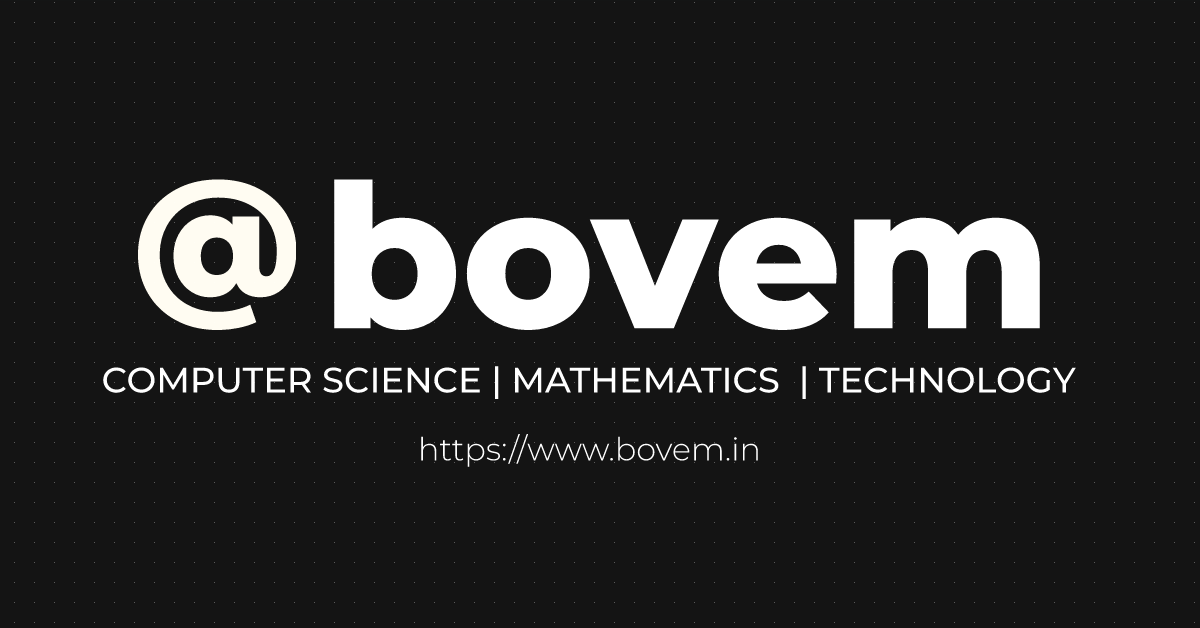
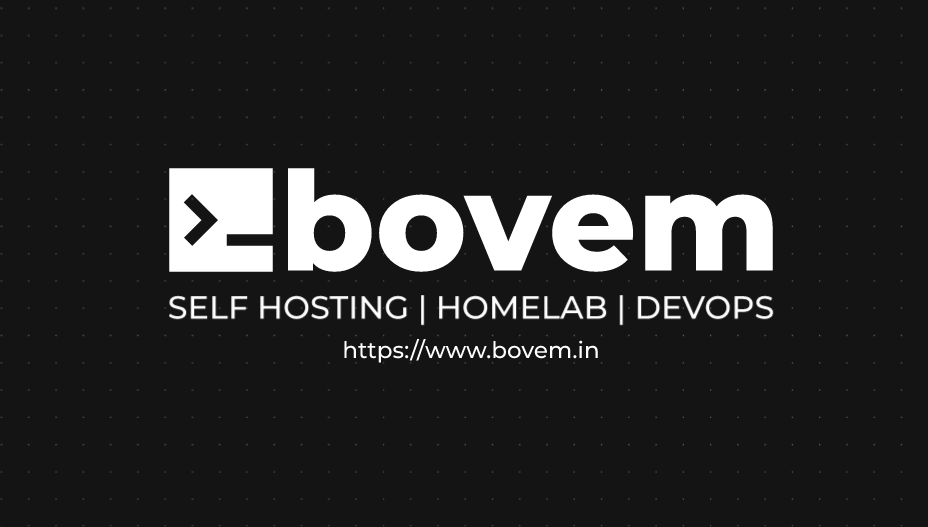
Finished article: container image building

Changed region(s): [[0.0625, 0.2732, 0.9062, 0.759]]

diff --git a/content/posts/openshift/building-container-images/index.md b/content/posts/openshift/building-container-images/index.md
@@ -1,0 +1,171 @@
+---
+author: "Avnish"
+title: "Building Container Images"
+date: "2023-03-20"
+description: "Container images are built from Containerfile, a plaintext specification containing the steps to be executed during the build process."
+tags: ["container","podman","docker","buildah","openshift","kubernetes","container-image"]
+categories: ["Microservices", "Cloud Computing"]
+series: ["OpenShift"]
+aliases: ["building-container-images"]
+ShowToc: true
+TocOpen: false
+cover:
+  image: "container_image.drawio.svg"
+  linkFullImages: true
+  alt: "Building container images from Containerfile"
+  caption: "Building container images from Containerfile"
+  relative: false
+---
+
+Public registries provide container images for most use cases but they might not cover all of them. That's why container engines such as Podman & Docker and CLI tools like `buildah` provide utilities for creating custom <a href="/posts/openshift/container-images" target="_blank">container images</a>.
+
+The build steps are written in a plaintext file called **Containerfile** and parsed by container engines (or `buildah`) during the build process.
+
+```dockerfile
+# Containerfile
+FROM node:18-alpine
+LABEL version="1.0" 
+WORKDIR /app
+COPY . .
+RUN yarn install --production
+CMD ["node", "src/index.js"]
+EXPOSE 3000
+```
+
+## Containerfile Instructions
+Steps inside the containerfile are defined using instructions such as `FROM`, `RUN`, `ADD`, `COPY`, etc. 
+Container Engines go through the containerfile line-by-line and perform each step, stacking a new image layer on top of the previous one.
+
+### FROM
+`FROM` instruction specifies the base layer container image. The base layer image could be chosen based on OS preference (like Fedora, Kali, etc.) or programming language preference (like gcc, python, etc.), or any other preference.
+It is mandatory to have a `FROM` instruction in the containerfile.
+
+### ARG
+Variables for `FROM` instruction are defined using `ARG`.
+
+```dockerfile
+ARG IMAGE_VERSION=3.7
+FROM python:${IMAGE_VERSION}
+```
+
+After `FROM` instruction is executed, the value for the variable declared in `ARG` becomes inaccessible.
+
+### ENV
+The Environment variables (used by other instructions) are declared using `ENV`.
+
+```dockerfile
+ENV DEPLOYMENT_FOLDER=src
+WORKDIR ${DEPLOYMENT_FOLDER}
+```
+
+The `=` operator between the variable name and its value is optional.
+
+### LABEL
+`LABEL` is used to add metadata for container images in the form of key-value pairs. Metadata usually contains the author's name, author's email, version of the container image, etc.
+
+### ADD
+`ADD` instruction will copy files/directories from the source (host OS/URL/tarball) to the destination (container image). `ADD` allows permissions to be omitted on the copied files/directories with the `--chown` flag.
+
+```dockerfile
+ADD --chown=user:group src/ dest
+```
+
+Builds are performed inside a build context directory on the host. `ADD` will fail if the source file/directory is outside the build context.
+
+### COPY
+`COPY` is similar to `ADD` but it is limited to sources on the host, it doesn't support URLs or tarball. `COPY` is sufficient for most use cases, so it is preferred over `ADD`.
+
+### WORKDIR
+`WORKDIR` changes the current working directory (inside the image) for the next instructions. 
+
+### RUN
+`RUN` instruction executes the shell command passed as an argument. 
+
+A temporary container is created to execute the shell command and the changes on the file system (after command execution) are layered on top of existing image layers. By default, the instruction `RUN apt-get update -y` will be executed as `/bin/bash -c apt-get update -y`. 
+
+`SHELL` instruction is used in containerfile to change the default shell for `RUN`, for example, `SHELL ["/bin/zsh", "-c"]` will change the default shell from `bash` to `zsh`.
+
+### EXPOSE
+`EXPOSE` specifies the network ports to be used by the container on runtime. The ports still have to be published when the <a href="/posts/openshift/container-lifecycle/#port-forwarding" target="_blank">container is provisioned</a>.
+
+### CMD
+`CMD` adds a shell command that will be executed on container startup. `CMD` instructions could be written as `CMD param1 param2` or `CMD ["/bin/executable", "param1", "param2"]`. 
+
+Adding a `CMD` instruction can define the behavior of the container on startup, for example, a webserver container should start the webserver automatically on startup by running the invocation command defined in `CMD`.
+
+### ENTRYPOINT
+If the executable on container startup is expected to be the same in most conditions then it is preferable to add `ENTRYPOINT` over `CMD`. Parameters for the executable could be passed from `CMD` instruction.
+
+```dockerfile
+ENTRYPOINT /bin/executable
+CMD ["param1", "param2"]
+```
+
+### VOLUME
+To create a mount point inside the container, `VOLUME` instruction can be used. During runtime, the `--volume` flag is used to map a directory on the host to the mount point declared by `VOLUME` instruction. The data stored on the mount point will persist after container execution.
+
+### ONBUILD
+The command added in the `ONBUILD` instruction is executed when the built image is used as the base container image. 
+
+If container image `container-image-b` uses `container-image-a` as a base image, then the `ONBUILD` instruction defined in `container-image-a` will be triggered after `FROM` instruction is executed in `container-image-b`.
+
+<p align="center"><img src="on_build.png" alt="Execution of ONBUILD instruction"></p>
+<p align="center"><small><i>Execution of ONBUILD instruction</i></small></p>
+
+Using `ONBUILD`, the developers can ensure that any new image built upon their container image has the latest source code or that packages are up-to-date.
+
+```dockerfile
+ONBUILD RUN git clone source-code-repo-link.git
+```
+
+### USER
+`USER` instruction sets `UID` or `GID` during the build process.
+
+## Building container images using Docker
+Docker and Podman provide `build` subcommand for building container images from containerfile.
+
+```bash
+docker build .
+```
+
+`.` will be substituted with the current working directory on the host. 
+
+Note that by default Docker expects *Dockerfile* (instead of *Containerfile*) in the build context, `--file` flag could be used to pass the path to containerfile.
+
+```bash
+docker build --tag node-application:latest . --file ./Containerfile
+```
+
+Container Engines cache the built layers to save time and storage. Cached layers are reused in other image builds to disable this behavior `--no-cache` flag could be used with the `build` subcommand.
+
+`--rm` flag ensures that the intermediate container images are removed once the build process is successful.
+
+Adding files with sensitive data to `.dockerignore` will make sure that they aren't included in the container image.
+
+## Building container images using buildah
+`buildah` provides a `bud` subcommand for building container images from containerfile.
+
+```dockerfile
+buildah bud --tag "webserver:latest" .
+```
+
+Images built by `buildah` could then be executed using Podman and Docker or any other OCI image-compatible container engine. Podman also has a `build` subcommand for building container images and it uses the same code as `buildah`.
+
+`buildah` provides finer control over image building process that allows users to
+* Create base images using the scratch image, an image with a minimal footprint.
+* Mount a container's root filesystem, useful for debugging container-related issues.
+* Create a container image from a working container, helpful if Containerfile isn't accessible.
+* Execution of containerfile instructions using subcommands. For example, `RUN` instruction could be executed on a container image using `buildah run`. Similarly for `COPY` and `ADD` instructions.
+* Debug image building process by executing instructions manually with buildah.
+* Making ad-hoc changes to existing container images.
+* Automating build process.
+
+# External Resources
+<a href="https://opencontainers.org/about/overview/" target="_blank">About the Open Container Initiative</a>  
+<a href="https://github.com/opencontainers/image-spec/blob/main/manifest.md" target="_blank">OCI Image Manifest Specification</a>  
+<a href="https://github.com/opencontainers/image-spec/blob/main/layer.md" target="_blank">Image Layer Filesystem Changeset</a>  
+<a href="https://github.com/opencontainers/image-spec/blob/main/config.md" target="_blank">OCI Image Configuration</a>  
+<a href="https://docs.docker.com/storage/storagedriver/" target="_blank">About storage drivers</a>  
+<a href="https://docs.docker.com/engine/reference/builder/" target="_blank">Dockerfile reference</a>  
+<a href="https://docs.docker.com/engine/reference/commandline/build/" target="_blank">docker build</a>  
+<a href="https://github.com/containers/buildah/blob/main/README.md" target="_blank">buildah</a>  

diff --git a/README.md b/README.md
@@ -1,6 +1,14 @@
-[![Blog Cover Image](./static/bovem-substack-cover.png)](https://www.bovem.in/)
+[![Blog Cover Image](./static/bovem-cover.png)](https://www.bovem.in/)
 
-Blogs on Mathematics, Computer Science and Technology. <a target=_blank href="https://www.bovem.in/subscribe">Subscribe to my newsletter</a> if you are interested.
+Blogs on Self-Hosting, Homelab and DevOps Technologies.
+
+## Index
+-  <a target=_blank href="https://www.bovem.in/posts/openshift/">OpenShift</a>
+    -  <a target=_blank href="https://www.bovem.in/posts/openshift/containers/">Containers</a>
+    -  <a target=_blank href="https://www.bovem.in/posts/openshift/container-architecture/">Container Architecture</a>
+    -  <a target=_blank href="https://www.bovem.in/posts/openshift/container-lifecycle/">Container Lifecycle</a>
+    -  <a target=_blank href="https://www.bovem.in/posts/openshift/container-images/">Container Images</a>
+    -  <a target=_blank href="https://www.bovem.in/posts/openshift/building-container-images/">Building Container Images</a>
 
 ## Technologies Used
 - [Hugo Static Site Generator](https://gohugo.io/)
@@ -8,9 +16,16 @@ Blogs on Mathematics, Computer Science and Technology. <a target=_blank href="ht
 
 ## Local Deployment (with Docker)
 
-Inside `/deploy` folder
+### Dev Environment (with Drafts and Future Posts)
+1. Change directory to `/deploy/dev`
+2. Deploy container
 ```bash
 docker compose up -d
 ```
 
-Hugo server should be accessible at [http://localhost:1313](http://localhost:1313)
+### Prod Environment
+1. Change directory to `/deploy/prod`
+2. Deploy container
+```bash
+docker compose up -d
+```

diff --git a/content/posts/openshift/container-lifecycle/index.md b/content/posts/openshift/container-lifecycle/index.md
@@ -118,7 +118,7 @@ podman run -it --name python-test --detach \
 
 This command starts a python container with contents of the present working directory (fetched from the `pwd` command) mounted on the `/app` directory inside the container. Both directory paths have to be absolute.
 
-Before mounting the host directory we have to change its <a href="/openshift/container-architecture/#security-enhanced-linux-selinux" target="_blank">SELinux</a> context to `container_file_t` otherwise we could encounter permission issues while accessing directory contents. To change the SELinux context you can append either `:z` (if multiple containers need read-write access) or `:Z` (if only the current container needs read-write access).
+Before mounting the host directory we have to change its <a href="/posts/openshift/container-architecture/#security-enhanced-linux-selinux" target="_blank">SELinux</a> context to `container_file_t` otherwise we could encounter permission issues while accessing directory contents. To change the SELinux context you can append either `:z` (if multiple containers need read-write access) or `:Z` (if only the current container needs read-write access).
 
 <p align="center"><img src="podman_desktop_volumes.png" alt="Accessing volumes on Podman Desktop"></p>
 <p align="center"><small>Accessing volumes on Podman Desktop</small></p>
